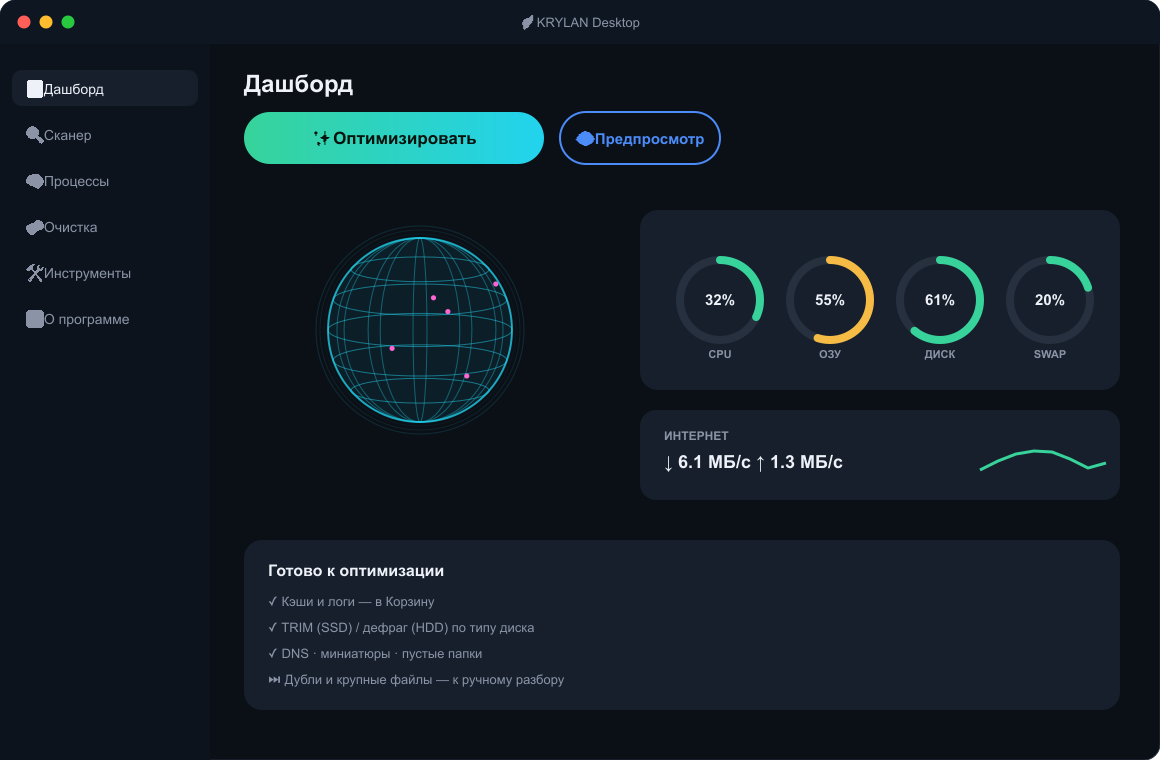
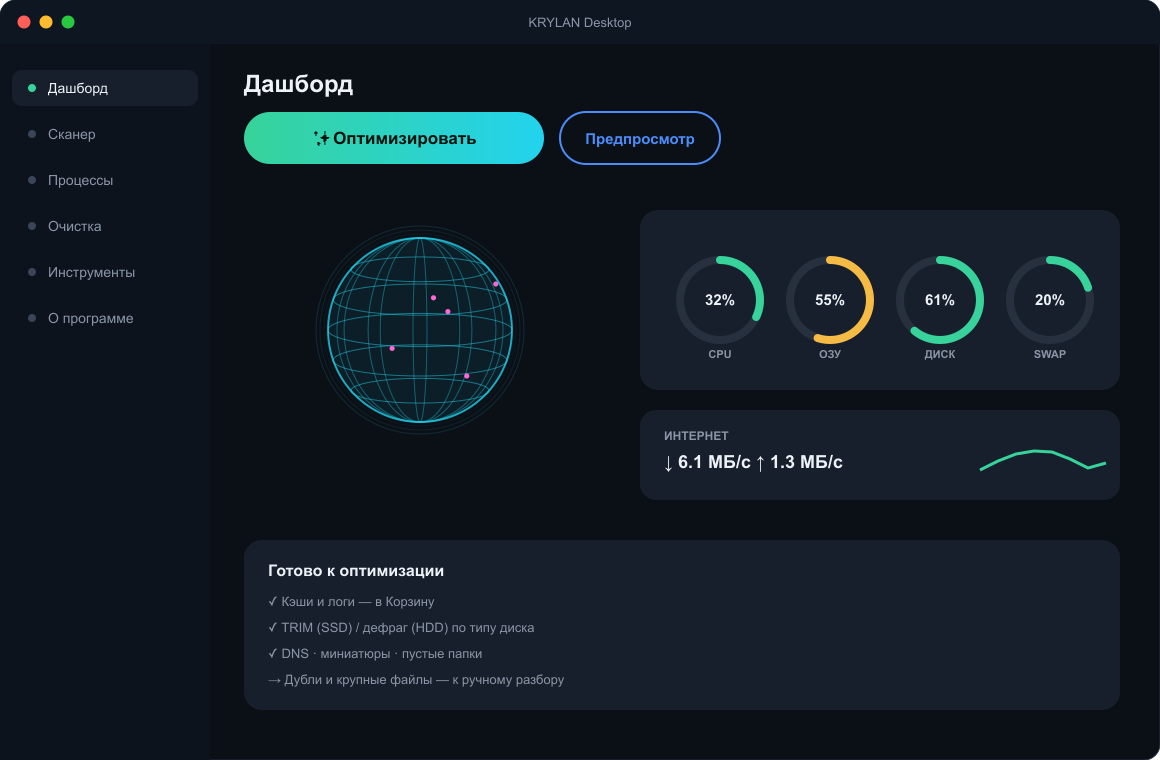
docs(лендинг): заменены все эмодзи-иконки на SVG + чистые макеты Desktop/Android
- Оставшиеся эмодзи (Скачать, таблица ОС, figcaption, заголовки инструкции) →
  SVG-логотипы платформ (Apple/Windows/Linux-пингвин/iPhone/Android).
- Desktop/Android макеты перегенерированы без «тофу»: сайдбар с аккуратными
  маркерами вместо нерендеримых эмодзи, убраны 👁/⏭/🪽 (rsvg их не рисует).

diff --git a/docs/index.html b/docs/index.html
@@ -56,7 +56,7 @@
     </div>
     <img src="hero.png" alt="KRYLAN — Дай устройству крылья"
          style="width:100%;max-width:780px;border-radius:22px;box-shadow:0 24px 70px #000a;margin-bottom:18px">
-    <p class="tag">Красивый оптимизатор со «стеклянным» интерфейсом и фирменным <b>анимированным глобусом</b>. <b>🚀 Ускорить одной кнопкой</b>, Software Updater, бенчмарк диска, sunburst-карта, живой график интернета. Мощнее CleanMyMac и BoostSpeed — но <b>бесплатно</b>, с открытым кодом и <b>без вредных «бустеров»</b> (никакого дефрага SSD и чистки реестра).</p>
+    <p class="tag">Красивый оптимизатор со «стеклянным» интерфейсом и фирменным <b>анимированным глобусом</b>. <b>Ускорить одной кнопкой</b>, Software Updater, бенчмарк диска, sunburst-карта, живой график интернета. Мощнее CleanMyMac и BoostSpeed — но <b>бесплатно</b>, с открытым кодом и <b>без вредных «бустеров»</b> (никакого дефрага SSD и чистки реестра).</p>
     <div class="badges">
       <img src="https://img.shields.io/badge/version-2.46.0-37d39a" alt="version">
       <img src="https://img.shields.io/badge/macOS-11%2B-4b8cf9" alt="macOS">
@@ -114,16 +114,16 @@
     <figure style="margin:0 0 22px;text-align:center">
       <img src="shot-desktop.png" alt="KRYLAN Desktop — дашборд (Windows · macOS · Linux)" loading="lazy"
            style="width:100%;max-width:860px;border-radius:14px;box-shadow:0 18px 50px #000a;border:1px solid var(--line)">
-      <figcaption style="color:var(--muted);font-size:13px;margin-top:8px">🖥 KRYLAN Desktop — Windows · macOS · Linux</figcaption>
+      <figcaption style="color:var(--muted);font-size:13px;margin-top:8px"><svg viewBox="0 0 24 24" width="16" height="16" fill="none" stroke="#37d39a" stroke-width="2" stroke-linecap="round" stroke-linejoin="round" style="vertical-align:-3px" aria-label="Desktop"><rect x="2" y="3" width="20" height="14" rx="2"/><path d="M8 21h8"/><path d="M12 17v4"/></svg> KRYLAN Desktop — Windows · macOS · Linux</figcaption>
     </figure>
     <div style="display:flex;gap:18px;overflow-x:auto;padding:6px 2px 14px;scroll-snap-type:x mandatory">
       <figure style="flex:0 0 auto;margin:0;text-align:center;scroll-snap-align:center">
         <img src="shot-android.png" alt="KRYLAN на Android" loading="lazy" style="height:420px;border-radius:26px;box-shadow:0 16px 44px #000a;border:1px solid var(--line)">
-        <figcaption style="color:var(--muted);font-size:13px;margin-top:8px">🤖 Android</figcaption>
+        <figcaption style="color:var(--muted);font-size:13px;margin-top:8px"><svg viewBox="0 0 24 24" width="16" height="16" fill="#37d39a" style="vertical-align:-3px" aria-label="Android"><path d="M7 11h10v6.2A1.6 1.6 0 0 1 15.4 18.8H8.6A1.6 1.6 0 0 1 7 17.2z"/><rect x="9" y="18.4" width="2" height="3.6" rx="1"/><rect x="13" y="18.4" width="2" height="3.6" rx="1"/><path d="M7 10a5 5 0 0 1 10 0z"/><path d="M5 11.4a1.1 1.1 0 0 1 2.2 0v4.2a1.1 1.1 0 0 1-2.2 0zM16.8 11.4a1.1 1.1 0 0 1 2.2 0v4.2a1.1 1.1 0 0 1-2.2 0z"/><circle cx="10" cy="7.4" r=".7" fill="#0f131b"/><circle cx="14" cy="7.4" r=".7" fill="#0f131b"/></svg> Android</figcaption>
       </figure>
       <figure style="flex:0 0 auto;margin:0;text-align:center;scroll-snap-align:center">
         <img src="shot-dashboard.png" alt="iPhone — дашборд с глобусом" loading="lazy" style="height:420px;border-radius:26px;box-shadow:0 16px 44px #000a;border:1px solid var(--line)">
-        <figcaption style="color:var(--muted);font-size:13px;margin-top:8px">📱 iPhone · дашборд</figcaption>
+        <figcaption style="color:var(--muted);font-size:13px;margin-top:8px"><svg viewBox="0 0 24 24" width="16" height="16" fill="none" stroke="#37d39a" stroke-width="1.8" style="vertical-align:-3px" aria-label="iPhone"><rect x="6.5" y="2" width="11" height="20" rx="2.6"/><line x1="10" y1="18.6" x2="14" y2="18.6"/></svg> iPhone · дашборд</figcaption>
       </figure>
       <figure style="flex:0 0 auto;margin:0;text-align:center;scroll-snap-align:center">
         <img src="shot-optimize.png" alt="Оптимизировать — результат" loading="lazy" style="height:420px;border-radius:26px;box-shadow:0 16px 44px #000a;border:1px solid var(--line)">
@@ -152,9 +152,9 @@
         <thead>
           <tr style="text-align:left;color:var(--muted)">
             <th style="padding:12px 14px;border-bottom:1px solid var(--line)">Функция</th>
-            <th style="padding:12px 14px;border-bottom:1px solid var(--line)">🪟 Windows</th>
-            <th style="padding:12px 14px;border-bottom:1px solid var(--line)">🍏 macOS</th>
-            <th style="padding:12px 14px;border-bottom:1px solid var(--line)">🐧 Linux</th>
+            <th style="padding:12px 14px;border-bottom:1px solid var(--line)"><svg viewBox="0 0 24 24" width="15" height="15" fill="#37d39a" style="vertical-align:-2px" aria-label="Windows"><path d="M3 5.6 10.4 4.5v6.9H3zM11.4 4.4 21 3v8.4h-9.6zM3 12.4h7.4v6.9L3 18.4zM11.4 12.4H21V21l-9.6-1.4z"/></svg> Windows</th>
+            <th style="padding:12px 14px;border-bottom:1px solid var(--line)"><svg viewBox="0 0 24 24" width="15" height="15" fill="#37d39a" style="vertical-align:-2px" aria-label="macOS"><path d="M16.36 12.78c.02 2.5 2.2 3.33 2.22 3.34-.02.06-.35 1.2-1.15 2.37-.69 1.02-1.41 2.03-2.55 2.05-1.11.02-1.47-.66-2.75-.66s-1.68.64-2.73.68c-1.1.04-1.93-1.1-2.63-2.11-1.42-2.07-2.51-5.85-1.05-8.41.72-1.27 2.02-2.07 3.42-2.09 1.08-.02 2.09.72 2.75.72.66 0 1.89-.89 3.19-.76.54.02 2.07.22 3.05 1.65-.08.05-1.82 1.06-1.8 3.16M14.2 5.36c.6-.73 1.01-1.74.9-2.75-.87.03-1.92.58-2.54 1.3-.56.64-1.05 1.67-.92 2.65.97.08 1.96-.49 2.56-1.2"/></svg> macOS</th>
+            <th style="padding:12px 14px;border-bottom:1px solid var(--line)"><svg viewBox="0 0 24 24" width="15" height="15" fill="none" stroke="#37d39a" stroke-width="2" stroke-linecap="round" stroke-linejoin="round" style="vertical-align:-2px" aria-label="Linux"><path d="M9 3a3 3 0 0 1 6 0c0 1.5-.5 2.5-.5 4 0 1 .8 1.7 1.6 2.8 1 1.4 1.9 2.9 1.9 5.2a6 6 0 0 1-12 0c0-2.3.9-3.8 1.9-5.2C8.7 8.7 9.5 8 9.5 7 9.5 5.5 9 4.5 9 3Z"/><path d="M10 7h.01M14 7h.01"/></svg> Linux</th>
             <th style="padding:12px 14px;border-bottom:1px solid var(--line)">Почему адаптивно</th>
           </tr>
         </thead>
@@ -250,16 +250,16 @@
   <section style="padding:18px 0 0">
     <h2 style="text-align:center;font-size:26px;margin-bottom:18px">Скачать</h2>
     <div class="grid">
-      <div class="card"><div class="e">🍏</div><h3>macOS</h3><p>CleanMac.dmg или Homebrew.</p>
+      <div class="card"><div class="e"><svg viewBox="0 0 24 24" width="30" height="30" fill="#37d39a" aria-label="macOS"><path d="M16.36 12.78c.02 2.5 2.2 3.33 2.22 3.34-.02.06-.35 1.2-1.15 2.37-.69 1.02-1.41 2.03-2.55 2.05-1.11.02-1.47-.66-2.75-.66s-1.68.64-2.73.68c-1.1.04-1.93-1.1-2.63-2.11-1.42-2.07-2.51-5.85-1.05-8.41.72-1.27 2.02-2.07 3.42-2.09 1.08-.02 2.09.72 2.75.72.66 0 1.89-.89 3.19-.76.54.02 2.07.22 3.05 1.65-.08.05-1.82 1.06-1.8 3.16M14.2 5.36c.6-.73 1.01-1.74.9-2.75-.87.03-1.92.58-2.54 1.3-.56.64-1.05 1.67-.92 2.65.97.08 1.96-.49 2.56-1.2"/></svg></div><h3>macOS</h3><p>CleanMac.dmg или Homebrew.</p>
         <div class="install" style="margin-top:8px">brew install --cask https://raw.githubusercontent.com/Alex1986-rgb/CleanMac/main/Casks/cleanmac.rb</div>
         <a class="btn btn-p" style="margin-top:10px" href="https://github.com/Alex1986-rgb/CleanMac/releases/latest">⬇ .dmg</a></div>
-      <div class="card"><div class="e">🪟</div><h3>Windows / Linux</h3><p>KRYLAN Desktop — .exe или из исходников.</p>
+      <div class="card"><div class="e"><svg viewBox="0 0 24 24" width="30" height="30" fill="#37d39a" aria-label="Windows / Linux"><path d="M3 5.6 10.4 4.5v6.9H3zM11.4 4.4 21 3v8.4h-9.6zM3 12.4h7.4v6.9L3 18.4zM11.4 12.4H21V21l-9.6-1.4z"/></svg></div><h3>Windows / Linux</h3><p>KRYLAN Desktop — .exe или из исходников.</p>
         <a class="btn btn-s" style="margin-top:10px" href="https://github.com/Alex1986-rgb/CleanMac/releases/latest">⬇ Releases</a></div>
-      <div class="card"><div class="e">📱</div><h3>iPhone (beta)</h3><p>Файл .ipa — установка через бесплатный <a href="https://sideloadly.io" style="color:#37d39a">Sideloadly</a> или <a href="https://altstore.io" style="color:#37d39a">AltStore</a> с вашим Apple ID:</p>
+      <div class="card"><div class="e"><svg viewBox="0 0 24 24" width="30" height="30" fill="none" stroke="#37d39a" stroke-width="1.8" aria-label="iPhone"><rect x="6.5" y="2" width="11" height="20" rx="2.6"/><line x1="10" y1="18.6" x2="14" y2="18.6"/></svg></div><h3>iPhone (beta)</h3><p>Файл .ipa — установка через бесплатный <a href="https://sideloadly.io" style="color:#37d39a">Sideloadly</a> или <a href="https://altstore.io" style="color:#37d39a">AltStore</a> с вашим Apple ID:</p>
         <div class="install" style="margin-top:8px">1. Скачайте .ipa на компьютер<br>2. Подключите iPhone кабелем<br>3. Sideloadly → перетащите .ipa → Start</div>
         <a class="btn btn-p" style="margin-top:10px" href="https://github.com/Alex1986-rgb/CleanMac/releases/latest">⬇ KRYLAN-iOS .ipa (beta)</a>
         <p style="margin-top:8px;font-size:12px;opacity:.7">Подпись бесплатного Apple ID живёт 7 дней, потом переустановить. App Store / TestFlight — скоро.</p></div>
-      <div class="card"><div class="e">🤖</div><h3>Android (beta)</h3><p>Готовый APK — установка напрямую (sideload):</p>
+      <div class="card"><div class="e"><svg viewBox="0 0 24 24" width="30" height="30" fill="#37d39a" aria-label="Android"><path d="M7 11h10v6.2A1.6 1.6 0 0 1 15.4 18.8H8.6A1.6 1.6 0 0 1 7 17.2z"/><rect x="9" y="18.4" width="2" height="3.6" rx="1"/><rect x="13" y="18.4" width="2" height="3.6" rx="1"/><path d="M7 10a5 5 0 0 1 10 0z"/><path d="M5 11.4a1.1 1.1 0 0 1 2.2 0v4.2a1.1 1.1 0 0 1-2.2 0zM16.8 11.4a1.1 1.1 0 0 1 2.2 0v4.2a1.1 1.1 0 0 1-2.2 0z"/><circle cx="10" cy="7.4" r=".7" fill="#0f131b"/><circle cx="14" cy="7.4" r=".7" fill="#0f131b"/><path stroke="#37d39a" stroke-width="1.2" stroke-linecap="round" d="M8.2 5.2 7 3.6M15.8 5.2 17 3.6"/></svg></div><h3>Android (beta)</h3><p>Готовый APK — установка напрямую (sideload):</p>
         <div class="install" style="margin-top:8px">1. Скачайте .apk на телефон<br>2. Разрешите установку из этого источника<br>3. Откройте файл → Установить</div>
         <a class="btn btn-p" style="margin-top:10px" href="https://github.com/Alex1986-rgb/CleanMac/releases/latest">⬇ KRYLAN-Android .apk</a>
         <p style="margin-top:8px;font-size:12px;opacity:.7">Подписанная release-сборка. Для Google Play в релизе есть и .aab.</p></div>
@@ -271,7 +271,7 @@
     <p style="text-align:center;color:var(--muted);margin-bottom:18px">Пошагово для каждого устройства. Версия 2.46.0.</p>
 
     <div class="card" style="margin-bottom:16px">
-      <h3>🍏 macOS — CleanMac</h3>
+      <h3><svg viewBox="0 0 24 24" width="20" height="20" fill="#37d39a" style="vertical-align:-3px" aria-label="macOS"><path d="M16.36 12.78c.02 2.5 2.2 3.33 2.22 3.34-.02.06-.35 1.2-1.15 2.37-.69 1.02-1.41 2.03-2.55 2.05-1.11.02-1.47-.66-2.75-.66s-1.68.64-2.73.68c-1.1.04-1.93-1.1-2.63-2.11-1.42-2.07-2.51-5.85-1.05-8.41.72-1.27 2.02-2.07 3.42-2.09 1.08-.02 2.09.72 2.75.72.66 0 1.89-.89 3.19-.76.54.02 2.07.22 3.05 1.65-.08.05-1.82 1.06-1.8 3.16M14.2 5.36c.6-.73 1.01-1.74.9-2.75-.87.03-1.92.58-2.54 1.3-.56.64-1.05 1.67-.92 2.65.97.08 1.96-.49 2.56-1.2"/></svg> macOS — CleanMac</h3>
       <ol style="margin:8px 0 0 18px;line-height:1.8">
         <li>Скачайте <b>CleanMac.dmg</b> со страницы <a href="https://github.com/Alex1986-rgb/CleanMac/releases/latest">Releases</a>.</li>
         <li>Откройте .dmg и перетащите <b>CleanMac</b> в «Программы».</li>
@@ -283,7 +283,7 @@
     </div>
 
     <div class="card" style="margin-bottom:16px">
-      <h3>🪟 Windows — KRYLAN Desktop</h3>
+      <h3><svg viewBox="0 0 24 24" width="20" height="20" fill="#37d39a" style="vertical-align:-3px" aria-label="Windows"><path d="M3 5.6 10.4 4.5v6.9H3zM11.4 4.4 21 3v8.4h-9.6zM3 12.4h7.4v6.9L3 18.4zM11.4 12.4H21V21l-9.6-1.4z"/></svg> Windows — KRYLAN Desktop</h3>
       <ol style="margin:8px 0 0 18px;line-height:1.8">
         <li>Скачайте <b>KRYLAN-Windows.exe</b> со страницы <a href="https://github.com/Alex1986-rgb/CleanMac/releases/latest">Releases</a>.</li>
         <li>Если SmartScreen предупреждает: <b>«Подробнее» → «Выполнить в любом случае»</b> (сборка без платной подписи).</li>
@@ -292,7 +292,7 @@
     </div>
 
     <div class="card" style="margin-bottom:16px">
-      <h3>🐧 Linux — KRYLAN Desktop</h3>
+      <h3><svg viewBox="0 0 24 24" width="20" height="20" fill="none" stroke="#37d39a" stroke-width="2" stroke-linecap="round" stroke-linejoin="round" style="vertical-align:-3px" aria-label="Linux"><path d="M9 3a3 3 0 0 1 6 0c0 1.5-.5 2.5-.5 4 0 1 .8 1.7 1.6 2.8 1 1.4 1.9 2.9 1.9 5.2a6 6 0 0 1-12 0c0-2.3.9-3.8 1.9-5.2C8.7 8.7 9.5 8 9.5 7 9.5 5.5 9 4.5 9 3Z"/><path d="M10 7h.01M14 7h.01"/></svg> Linux — KRYLAN Desktop</h3>
       <ol style="margin:8px 0 0 18px;line-height:1.8">
         <li>Скачайте <b>KRYLAN-linux-x86_64</b> со страницы <a href="https://github.com/Alex1986-rgb/CleanMac/releases/latest">Releases</a>.</li>
         <li>Дайте права и запустите:</li>
@@ -302,7 +302,7 @@
     </div>
 
     <div class="card" style="margin-bottom:16px">
-      <h3>📱 iPhone / iPad — KRYLAN (beta)</h3>
+      <h3><svg viewBox="0 0 24 24" width="20" height="20" fill="none" stroke="#37d39a" stroke-width="1.8" style="vertical-align:-3px" aria-label="iPhone"><rect x="6.5" y="2" width="11" height="20" rx="2.6"/><line x1="10" y1="18.6" x2="14" y2="18.6"/></svg> iPhone / iPad — KRYLAN (beta)</h3>
       <ol style="margin:8px 0 0 18px;line-height:1.8">
         <li>Скачайте <b>.ipa</b> со страницы <a href="https://github.com/Alex1986-rgb/CleanMac/releases/latest">Releases</a>.</li>
         <li>Установите через бесплатный <a href="https://altstore.io" style="color:#37d39a">AltStore</a> или <a href="https://sideloadly.io" style="color:#37d39a">Sideloadly</a> с вашим Apple ID.</li>
@@ -311,7 +311,7 @@
     </div>
 
     <div class="card" style="margin-bottom:16px">
-      <h3>🤖 Android — KRYLAN</h3>
+      <h3><svg viewBox="0 0 24 24" width="20" height="20" fill="#37d39a" style="vertical-align:-3px" aria-label="Android"><path d="M7 11h10v6.2A1.6 1.6 0 0 1 15.4 18.8H8.6A1.6 1.6 0 0 1 7 17.2z"/><rect x="9" y="18.4" width="2" height="3.6" rx="1"/><rect x="13" y="18.4" width="2" height="3.6" rx="1"/><path d="M7 10a5 5 0 0 1 10 0z"/><path d="M5 11.4a1.1 1.1 0 0 1 2.2 0v4.2a1.1 1.1 0 0 1-2.2 0zM16.8 11.4a1.1 1.1 0 0 1 2.2 0v4.2a1.1 1.1 0 0 1-2.2 0z"/><circle cx="10" cy="7.4" r=".7" fill="#0f131b"/><circle cx="14" cy="7.4" r=".7" fill="#0f131b"/></svg> Android — KRYLAN</h3>
       <ol style="margin:8px 0 0 18px;line-height:1.8">
         <li>Скачайте <b>.apk</b> со страницы <a href="https://github.com/Alex1986-rgb/CleanMac/releases/latest">Releases</a>.</li>
         <li>Разрешите «Установка из этого источника».</li>
